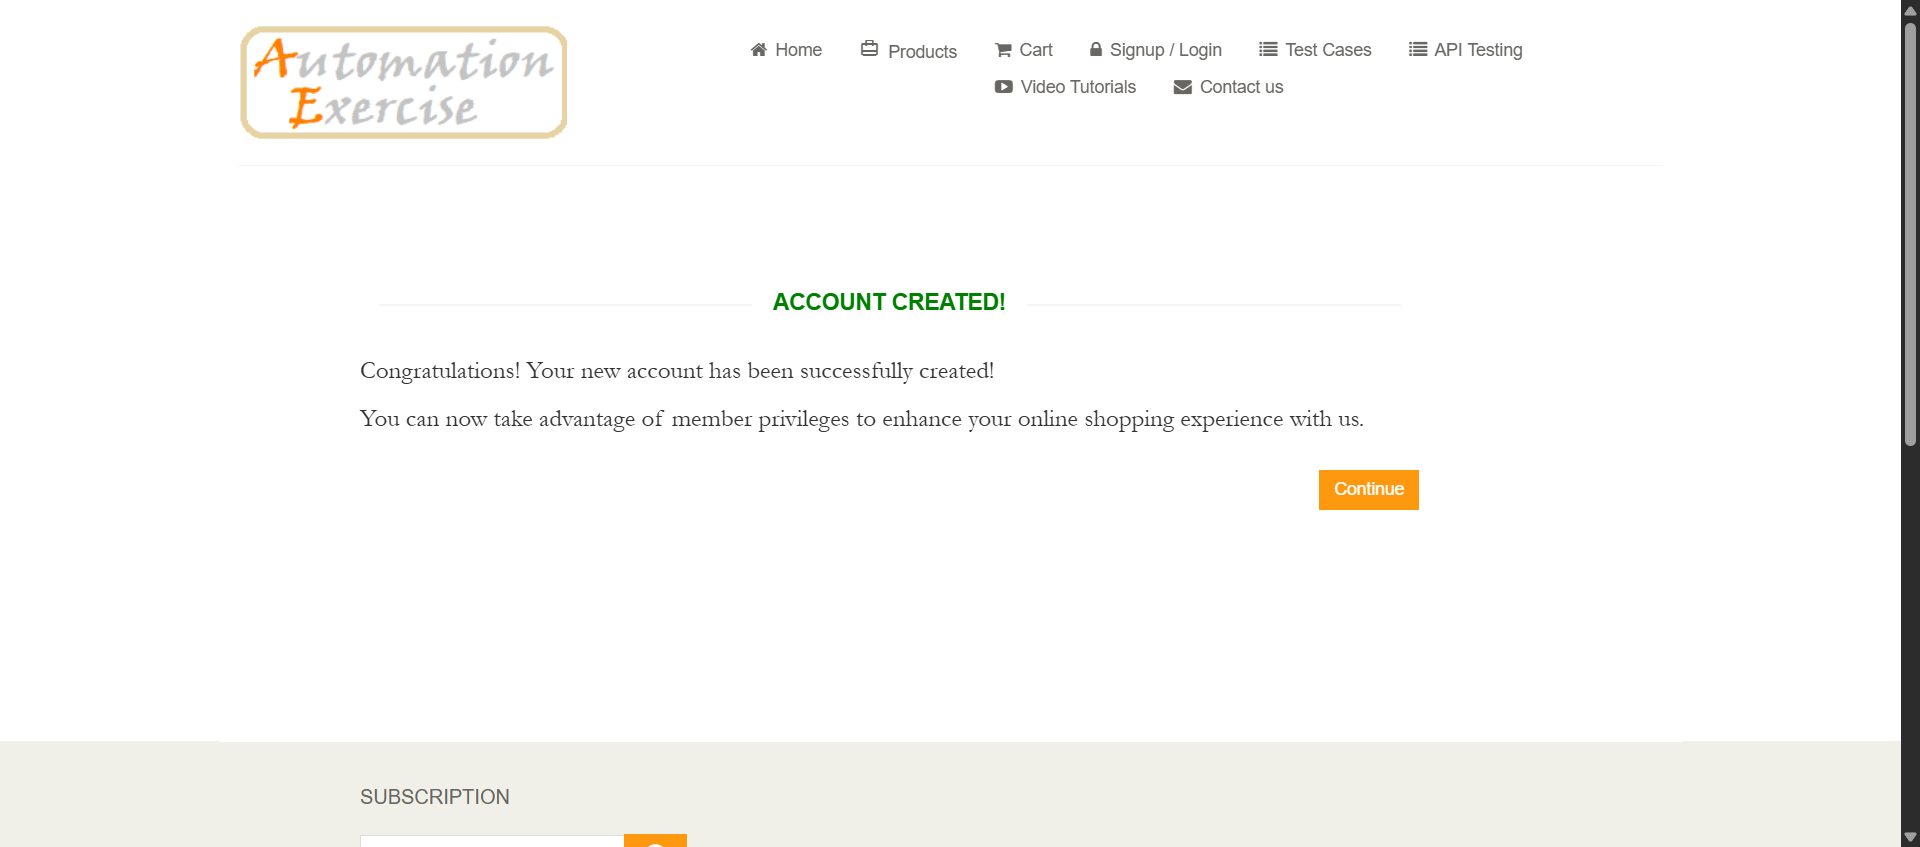
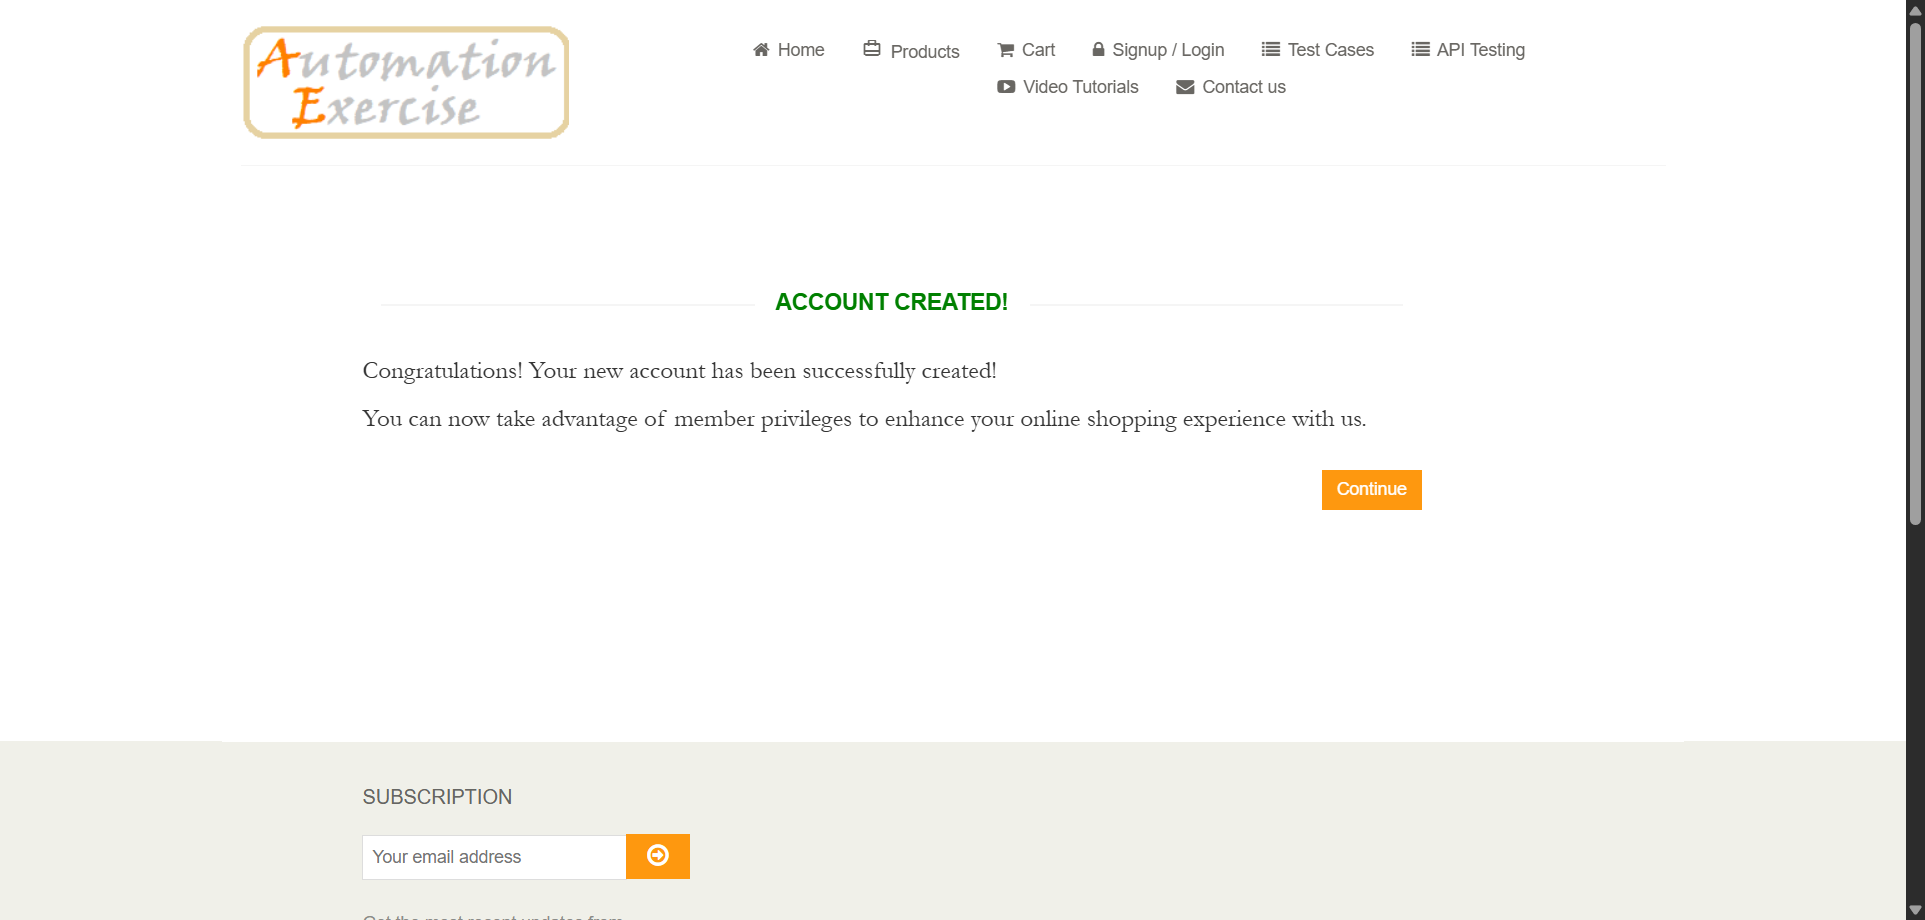
new files added

diff --git a/Selenium_Practice/testCase1.py b/Selenium_Practice/testCase1.py
@@ -2,9 +2,16 @@ from selenium import webdriver
 from selenium.webdriver.common.by import By
 from selenium.webdriver.support.ui import WebDriverWait
 from selenium.webdriver.support import expected_conditions
+from selenium.webdriver.chrome.options import Options
 
+chrome_options = Options()
+chrome_options.add_argument("--headless=new") 
+chrome_options.add_argument("--disable-gpu")
+chrome_options.add_argument("--window-size=1920,1080")
+chrome_options.add_argument("--no-sandbox")
+chrome_options.add_argument("--disable-dev-shm-usage")
 
-driver = webdriver.Chrome()
+driver = webdriver.Chrome(options=chrome_options)
 driver.get("http://automationexercise.com")
 wait = WebDriverWait(driver, 15)
 
@@ -30,7 +37,7 @@ name = driver.find_element(By.XPATH,value="//input[@name='name']")
 name.send_keys("messi")
 
 email = driver.find_element(By.XPATH,value='//*[@id="form"]/div/div/div[3]/div/form/input[3]')
-email.send_keys("[email redacted]")
+email.send_keys("[email redacted]")
 
 signup = driver.find_element(By.XPATH,value="//button[contains(text(),'Signup')]")
 signup.click()